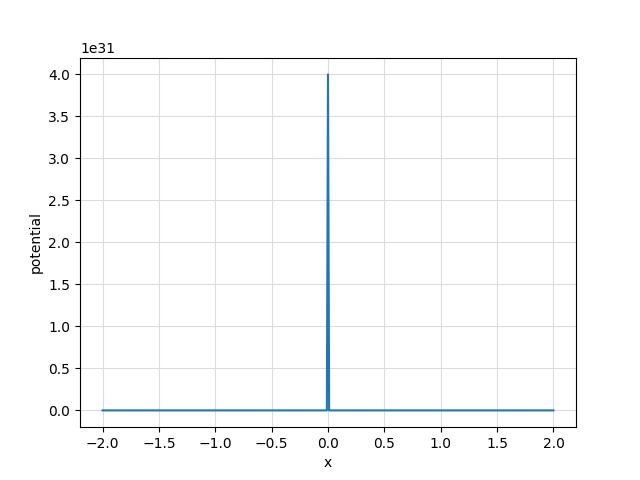
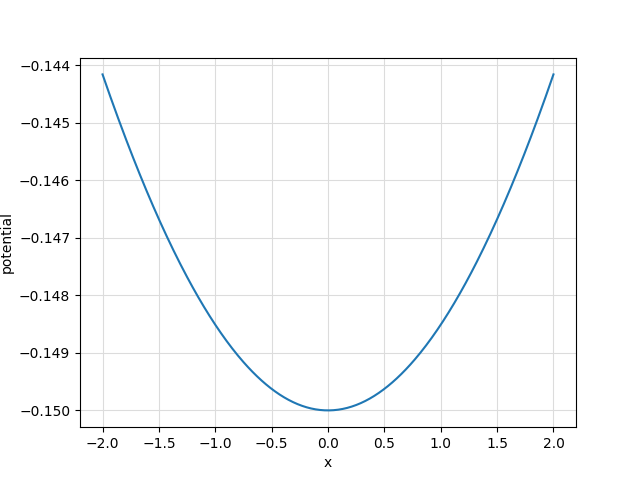
PT potential plotting works now

diff --git a/python/solver.py b/python/solver.py
@@ -121,12 +121,13 @@ def IVmaker(func,xvalues):
 
 
 # ------------------- potential ---------------
+def sech(x):
+  return 2/(np.exp(x)+np.exp(-x))
+
 def PTpot(xvalues):
-  V0 = 0.15
-  kappa = 0.1
-  beta = 1j*np.pi/2
-  theta = kappa*xvalues + beta
-  return V0*4/(np.exp(theta)+np.exp(-theta))**2 - V0
+  V0 = 0.15 # depth
+  kappa = 0.1 # width
+  return -V0 * sech(kappa*xvalues)**2
 
 # -------------------- now, do it ---------------
 if __name__ == "__main__":
@@ -146,8 +147,7 @@ if __name__ == "__main__":
     # print("courant number = %.2f" % courant)
     xvalues = np.linspace(-2,2,401)
     potential = PTpot(xvalues)
-    print(PTpot(0))
-    plot_potential(xvalues,potential.real)
+    plot_potential(xvalues,potential)
 
 
 
